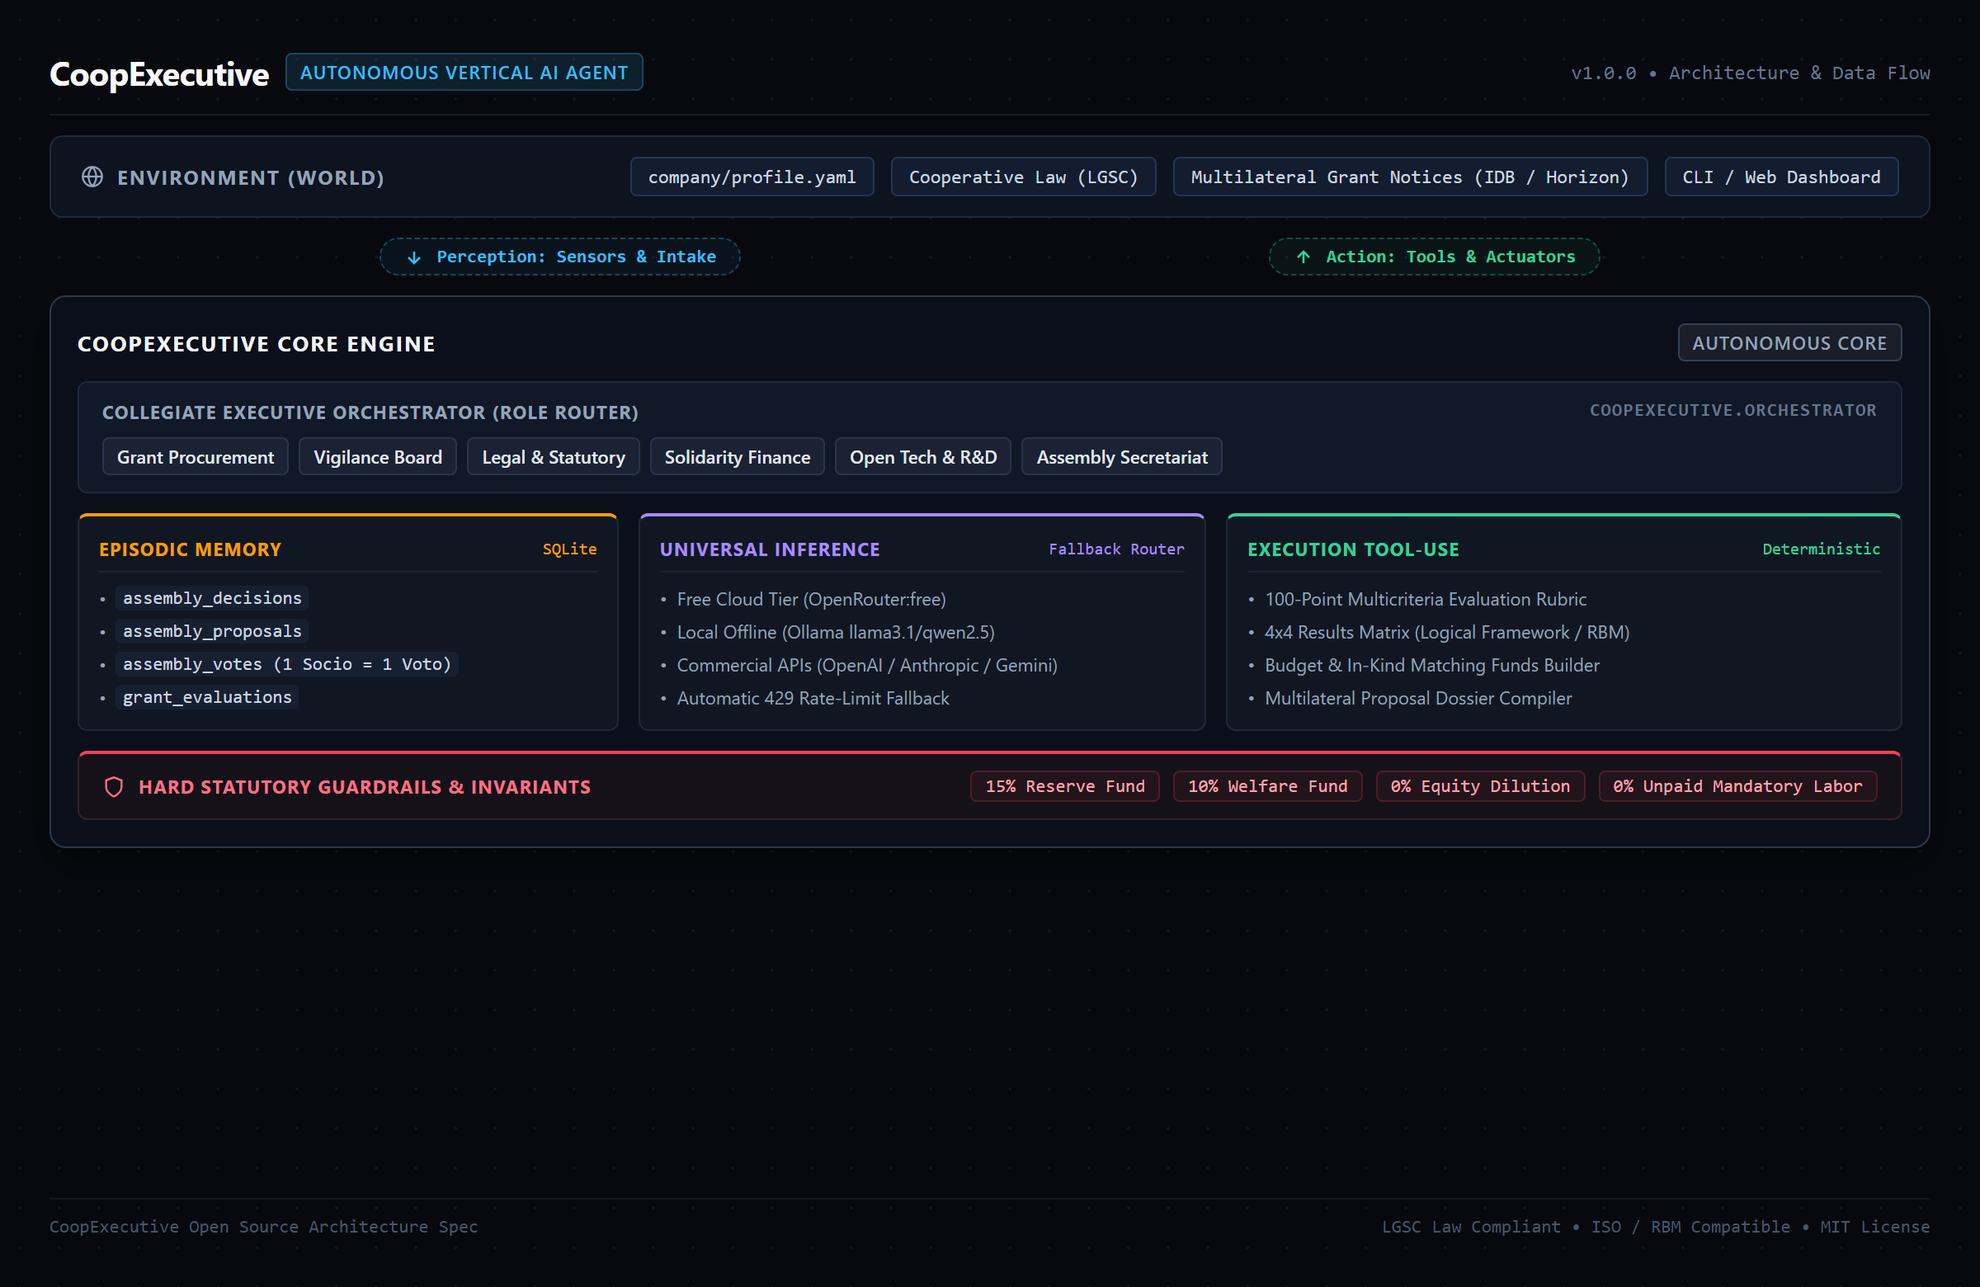
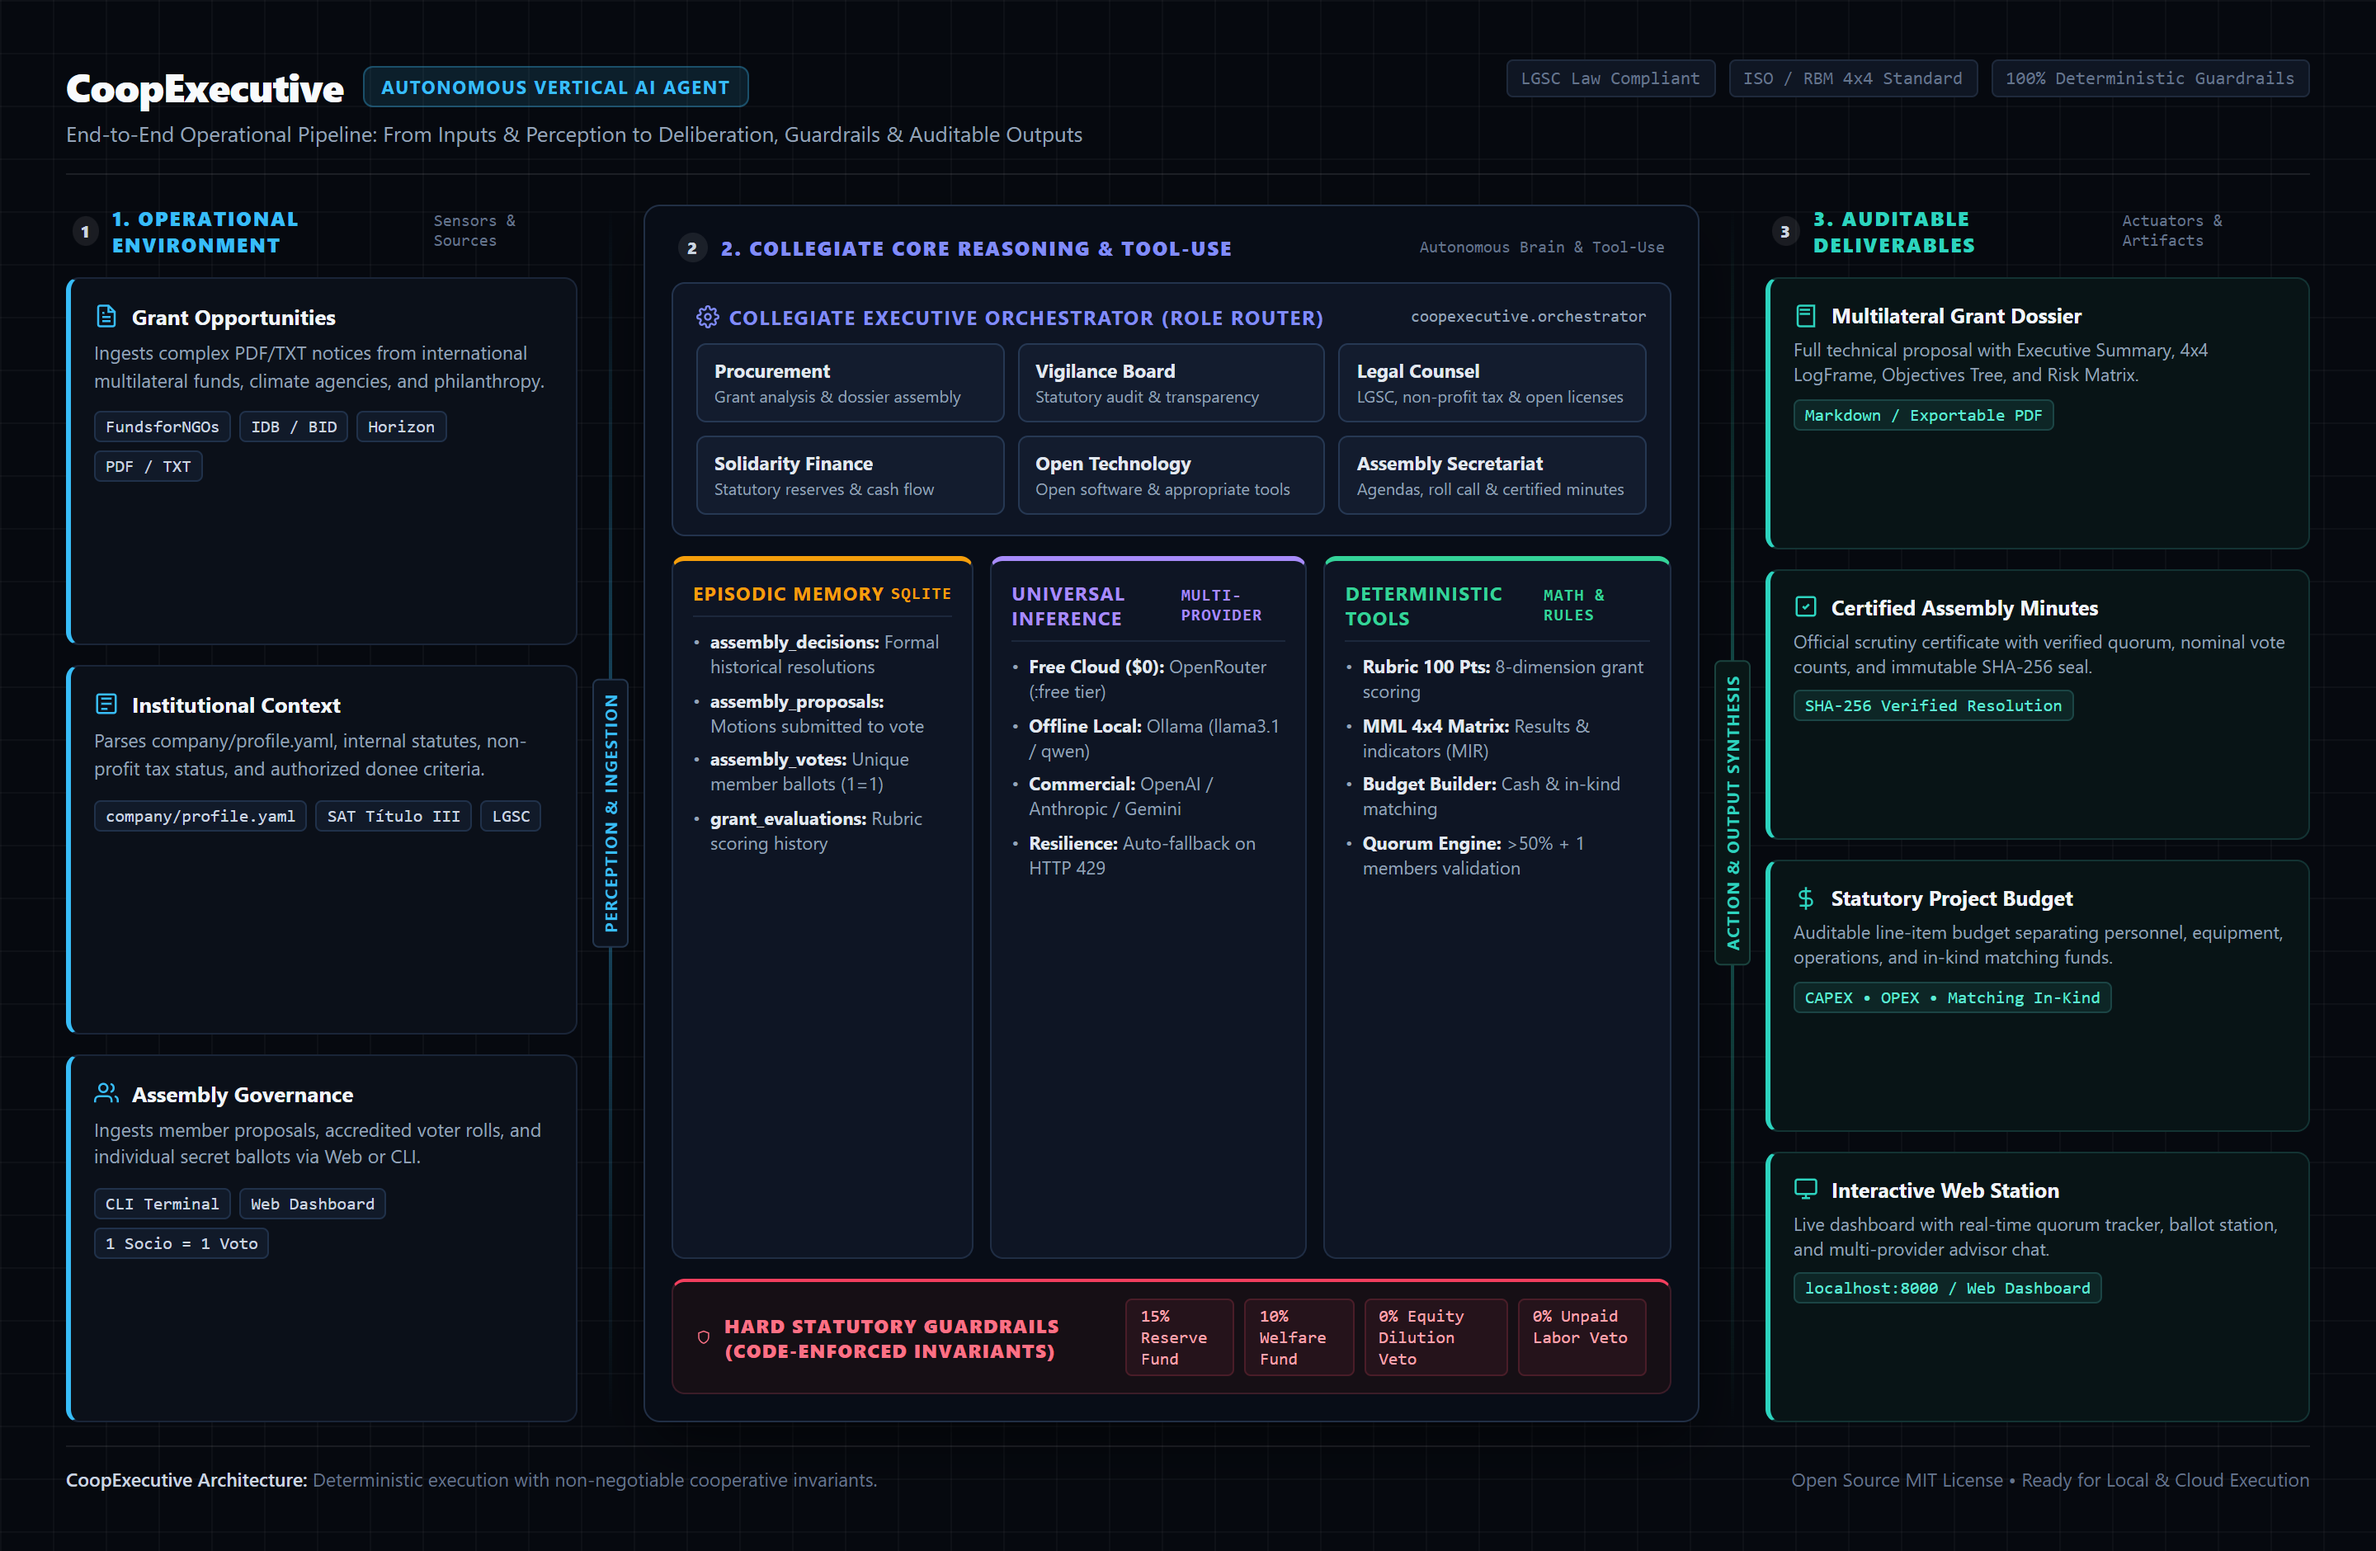
docs(architecture): redesign architecture diagram into end-to-end operational pipeline

diff --git a/ARCHITECTURE.md b/ARCHITECTURE.md
@@ -4,84 +4,99 @@ CoopExecutive is an open-source technical platform designed for cooperatives, ci
 
 ---
 
-## 1. System Architecture Overview
+## 1. End-to-End Operational Pipeline
 
-CoopExecutive is structured as an **Autonomous Vertical AI Agent**. The architecture decouples the operational environment from the core reasoning engine, persistent memory, and deterministic tool execution.
+CoopExecutive is structured as an **Autonomous Vertical AI Agent**. The system operates across a 3-stage deterministic pipeline connecting unstructured environmental inputs to verifiable governance and procurement outputs:
 
-![Architecture Diagram](assets/architecture.png)
+![CoopExecutive Architecture](assets/architecture.png)
 
 ```mermaid
-flowchart TD
-    subgraph ENV["OPERATIONAL ENVIRONMENT (World)"]
-        direction LR
-        P["company/profile.yaml"]
-        L["Cooperative Law (LGSC)"]
-        G["Multilateral Grant Calls (IDB / Horizon)"]
-        UI["CLI / Local Web Dashboard"]
+flowchart LR
+    subgraph STAGE1["1. OPERATIONAL ENVIRONMENT (Inputs)"]
+        direction TB
+        IN1["<b>Grant Opportunities</b><br/>PDF/TXT Calls from Multilateral Funds, Climate Agencies & Donors"]
+        IN2["<b>Institutional Profile</b><br/>company/profile.yaml, Bylaws, SAT Donee Status & LGSC"]
+        IN3["<b>Assembly Governance</b><br/>Proposals, Member Roll & Secret Ballots via Web / CLI"]
     end
 
-    ENV -->|"Perception (Sensors & Ingestion)"| ORCH
-    ACT -->|"Action (Tools & Deliverables)"| ENV
+    STAGE1 -->|"Perception & Ingestion"| ORCH
 
-    subgraph AGENT["CoopExecutive CORE ENGINE"]
-        ORCH["Collegiate Executive Orchestrator (Role Router)<br/><i>Procurement | Vigilance | Legal | Finance | Tech | Assembly</i>"]
-
-        subgraph SUBSYSTEMS["Core Execution Subsystems"]
+    subgraph STAGE2["2. COLLEGIATE CORE ENGINE & TOOL-USE"]
+        direction TB
+        ORCH["<b>Collegiate Executive Orchestrator (Role Router)</b><br/><i>Procurement | Vigilance Board | Legal Counsel | Solidarity Finance | Open Tech | Assembly Secretariat</i>"]
+        
+        subgraph SUBSYSTEMS["Execution & Deliberation Pillars"]
             direction LR
             MEM["<b>Episodic Memory (SQLite)</b><br/>• assembly_decisions<br/>• assembly_proposals<br/>• assembly_votes (1 Member = 1 Vote)<br/>• grant_evaluations"]
-            INF["<b>Universal Inference</b><br/>• Free Cloud (OpenRouter)<br/>• Offline Local (Ollama)<br/>• Commercial APIs<br/>• 429 Rate-Limit Fallback"]
-            TOOL["<b>Deterministic Tool-Use</b><br/>• 100-Point Rubric<br/>• 4x4 Logical Framework (LFM)<br/>• Budgeting & Matching Funds<br/>• Proposal Dossier Compiler"]
+            INF["<b>Universal Inference</b><br/>• Free Cloud: OpenRouter (:free)<br/>• Offline Local: Ollama (llama3.1)<br/>• Commercial: OpenAI / Anthropic / Gemini<br/>• Resilience: HTTP 429 Fallback"]
+            TOOL["<b>Deterministic Tools</b><br/>• 100-Point Rubric (8 Dimensions)<br/>• 4x4 Logical Framework (MIR)<br/>• Budget Builder & In-Kind Matcher<br/>• Quorum Engine (>50% + 1)"]
         end
 
-        ORCH --> MEM
-        ORCH --> INF
-        ORCH --> TOOL
-        TOOL --> ACT["Action Execution & Output Generation"]
-
-        GUARD["<b>Hard Statutory Guardrails & Invariants</b><br/>15% Reserve Fund | 10% Welfare Fund | 0% Equity Dilution | 0% Mandatory Unpaid Labor"]
+        ORCH --> SUBSYSTEMS
+        
+        GUARD["<b>Hard Statutory Guardrails (Code Invariants)</b><br/>15% Reserve Fund | 10% Welfare Fund | 0% Equity Dilution Veto | 0% Unpaid Labor Veto"]
         SUBSYSTEMS -.->|"Mandatory Pre-Execution Validation"| GUARD
+    end
+
+    SUBSYSTEMS -->|"Action & Output Synthesis"| STAGE3
+
+    subgraph STAGE3["3. AUDITABLE DELIVERABLES (Outputs)"]
+        direction TB
+        OUT1["<b>Multilateral Grant Dossier</b><br/>Full Proposal (Executive Summary, 4x4 LogFrame, Objectives & Risk Matrix)"]
+        OUT2["<b>Certified Assembly Minutes</b><br/>Formal Resolution with Verified Quorum, Nominal Tally & SHA-256 Seal"]
+        OUT3["<b>Statutory Project Budget</b><br/>Line-Item Budget (CAPEX, OPEX, Personnel & Matching Funds)"]
+        OUT4["<b>Interactive Web Dashboard & CLI</b><br/>Live Voting Station, Quorum Monitor & Collegiate Advisor Chat"]
     end
 ```
 
 ---
 
-## 2. Functional Layers
+## 2. Detailed Pipeline Specifications
 
-### Layer 1: Operational Environment & Perception
-* **Data Sources:** Reads local configuration files (`company/profile.yaml`), statutory documents, and grant specifications.
-* **Perception Channels:** Ingests unstructured documents (PDF and text files) and user directives issued through the CLI or the local web dashboard.
+### Stage 1: Operational Environment & Perception
+* **Grant Notices:** Ingests raw text and PDF calls for proposals from international platforms (FundsforNGOs, IDB, Horizon Europe, climate foundations).
+* **Institutional Context:** Parses `company/profile.yaml`, accredited legal status (e.g., Authorized Donee under SAT Title III, Cooperative under LGSC), and internal bylaws.
+* **Assembly Participation:** Receives member motions and individual secret ballots via the command-line interface or the interactive web station.
 
-### Layer 2: Collegiate Executive Orchestrator
-* Routes tasks dynamically based on functional domain:
-  * **`procurador_fondos`:** Evaluates calls and drafts grant proposals.
-  * **`vigilancia`:** Verifies that actions comply with internal statutes and prevent conflicts of interest.
-  * **`legal_social`:** Ensures compliance with cooperative law and non-profit tax regulations.
-  * **`finanzas_solidarias`:** Audits cash flow and enforces the separation of statutory reserves.
-  * **`desarrollo_tecnico`:** Assesses hardware specifications and open licensing.
-  * **`secretaria_asamblea`:** Manages meeting agendas, roll calls, and official minutes.
+### Stage 2: Collegiate Core Engine & Deliberation
+1. **Collegiate Orchestrator (`coopexecutive.orchestrator`):**
+   - Routes user and system queries to specialized functional hats:
+     - `procurador_fondos`: Grant search, rubric qualification, and proposal drafting.
+     - `vigilancia`: Internal democratic audit, conflict-of-interest checks, and statutory compliance.
+     - `legal_social`: Cooperative law (LGSC), non-profit corporate governance, and open licensing.
+     - `finanzas_solidarias`: Cash flow monitoring, budget controls, and statutory reserve preservation.
+     - `desarrollo_tecnico`: Open-source tooling, appropriate technology, and standards compliance (ISO/IEC/NOM).
+     - `secretaria_asamblea`: Meeting convocations, quorum computation, and certified minutes drafting.
 
-### Layer 3: Persistent Episodic Memory (`coopexecutive.memory.episodic`)
-* SQLite relational database (`coop_memory.db`) storing:
-  * `assembly_decisions`: Formally adopted assembly resolutions.
-  * `assembly_proposals`: Motions submitted for member vote.
-  * `assembly_votes`: Individual ballots, indexed with unique constraints on `(proposal_id, member_id)` to guarantee one vote per member.
-  * `grant_evaluations`: Historical rubric scores and verdicts.
+2. **Persistent Episodic Memory (`coopexecutive.memory.episodic`):**
+   - SQLite relational database (`coop_memory.db`) storing:
+     - `assembly_decisions`: Historical ratified resolutions.
+     - `assembly_proposals`: Registered motions for member voting.
+     - `assembly_votes`: Individual ballots with a composite primary key / unique constraint `(proposal_id, member_id)` enforcing strictly one vote per member.
+     - `grant_evaluations`: Evaluated calls and historical scoring records.
 
-### Layer 4: Universal Inference Engine (`coopexecutive.providers.client`)
-* Decoupled client handling multi-provider LLM requests:
-  * OpenRouter free tier with automatic retry and model fallback upon HTTP 429.
-  * Local Ollama instance for fully offline air-gapped environments.
-  * Commercial provider endpoints (OpenAI, Anthropic, Gemini, Groq, DeepSeek) through a unified interface.
+3. **Universal Inference Engine (`coopexecutive.providers.client`):**
+   - Unified multi-model routing:
+     - *Zero-Cost Cloud:* OpenRouter free tier (`minimax/minimax-m3:free`, `nvidia/nemotron-3-super-120b-a12b:free`).
+     - *Offline Local:* Private air-gapped execution via Ollama (`llama3.1`, `qwen2.5`).
+     - *Commercial Endpoints:* OpenAI (`gpt-4o`), Anthropic (`claude-3-7-sonnet`), Google Gemini, Groq, Mistral, and DeepSeek.
+     - *Rate-Limit Resilience:* Automatic exponential backoff and transparent fallback to secondary models upon receiving HTTP 429 errors.
 
-### Layer 5: Execution Tool-Use Layer (`coopexecutive.grant_tools`)
-* Deterministic modules providing verifiable outputs:
-  * **`eligibility_evaluator.py`:** Computes weighted scores across 8 dimensions (0–100 points) and outputs binding status verdicts (`APLICAR`, `OBSERVAR`, `RECHAZAR`).
-  * **`logical_framework.py`:** Generates 4x4 Results-Based Management matrices with verifiable indicators and assumptions.
-  * **`budget_builder.py`:** Structures expenses by category (Personnel, CAPEX, OPEX, Audit) and calculates matching fund ratios.
-  * **`dossier_generator.py`:** Assembles all components into structured markdown/PDF technical dossiers.
+4. **Deterministic Tool-Use Layer (`coopexecutive.grant_tools`):**
+   - Verifiable, non-hallucinatory algorithms:
+     - 100-point rubric across 8 dimensions (Eligibility, Relevance, Technical Design, Sustainability, Budget, Risk, Team Capacity, Impact) issuing binding verdicts (`APLICAR`, `OBSERVAR`, `RECHAZAR`).
+     - 4x4 Logical Framework Matrix (LFM / MIR) aligning objectives, indicators, means of verification, and assumptions with UN SDGs.
+     - Multi-category budget builder with explicit cash and in-kind matching contributions.
+     - Digital scrutiny engine computing statutory quorum (>50% + 1 members).
 
-### Layer 6: Hard Statutory Guardrails (`coopexecutive.governance.voting`)
-* Enforces structural invariants before recording motions or proposals:
-  * Invariant 1: Mandatory protection of statutory reserves (Reserve, Welfare, Education funds).
-  * Invariant 2: Immediate nullification of any proposal containing clauses for equity dilution or private stock issuance.
-  * Invariant 3: Immediate rejection of any motion attempting to enforce mandatory unpaid labor or rights waivers.
+5. **Hard Statutory Guardrails (`coopexecutive.governance.voting`):**
+   - Immutable code-level checks preventing the registration or adoption of prohibited terms:
+     - Veto against equity dilution, stock issuance, or corporate privatization.
+     - Veto against liquidation or diversion of mandatory statutory funds (15% Reserve, 10% Welfare, 10% Education).
+     - Veto against mandatory unpaid labor or rights waivers.
+
+### Stage 3: Auditable Deliverables & Effectors
+* **Multilateral Proposal Dossier:** Comprehensive, audit-ready Markdown and exportable PDF technical proposals.
+* **Cryptographically Sealed Minutes:** Certified scrutiny reports (*Actas de Escrutinio*) stamped with SHA-256 digital hashes for immutable internal audit trails.
+* **Structured Budgets:** Detailed financial tables segregating direct costs, administrative caps, and community co-financing.
+* **Interactive Local Web Station:** Real-time dashboard (`localhost:8000`) for assembly deliberation, live vote counting, and direct advisor interaction.

diff --git a/README.es.md b/README.es.md
@@ -34,7 +34,7 @@ En términos de arquitectura de software, **CoopExecutive es un Agente de IA Ver
      - *Consejo de Vigilancia:* Auditoría interna y observancia de estatutos.
      - *Asesor Jurídico:* Marco legal cooperativo, donatarias autorizadas y licencias abiertas.
      - *Finanzas Solidarias:* Supervisión del flujo de efectivo y custodia de fondos estatutarios.
-     - *Desarrollo Técnico:* Especificación de hardware libre, energías limpias y normas técnicas (ISO/IEC).
+     - *Desarrollo Técnico:* Herramientas y tecnologías abiertas, infraestructura técnica y normas (ISO/NOM).
      - *Secretaría de Actas:* Convocatorias, registro de asistencia, cuórum legal y minutas.
 
 3. **Memoria Episódica Persistente (SQLite):**

diff --git a/README.md b/README.md
@@ -34,7 +34,7 @@ In software architecture terms, **CoopExecutive is an Autonomous Vertical AI Age
      - *Vigilance Board:* Internal democratic audit and compliance oversight.
      - *Legal Counsel:* Cooperative statutes, non-profit tax exemptions, and open licensing.
      - *Solidarity Finance:* Cash flow oversight and statutory fund protection.
-     - *Open Technology:* Open-source hardware, clean energy, and technical standards (ISO/IEC).
+     - *Open Technology:* Open-source software, accessible technical infrastructure, and industry standards (ISO/IEC/NOM).
      - *Assembly Secretariat:* Agendas, accredited roll, legal quorum, and minutes.
 
 3. **Persistent Episodic Memory (SQLite):**

diff --git a/packages/core/README.md b/packages/core/README.md
@@ -34,7 +34,7 @@ In software architecture terms, **CoopExecutive is an Autonomous Vertical AI Age
      - *Vigilance Board:* Internal democratic audit and compliance oversight.
      - *Legal Counsel:* Cooperative statutes, non-profit tax exemptions, and open licensing.
      - *Solidarity Finance:* Cash flow oversight and statutory fund protection.
-     - *Open Technology:* Open-source hardware, clean energy, and technical standards (ISO/IEC).
+     - *Open Technology:* Open-source software, accessible technical infrastructure, and industry standards (ISO/IEC/NOM).
      - *Assembly Secretariat:* Agendas, accredited roll, legal quorum, and minutes.
 
 3. **Persistent Episodic Memory (SQLite):**
